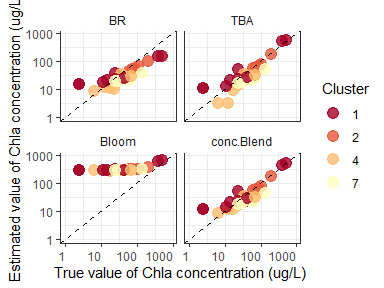
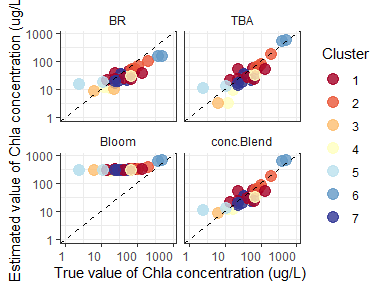
Version 0.9.1 README update

diff --git a/README.md b/README.md
@@ -88,7 +88,7 @@ plot_spec_from_df(Rrs) +
 
 ``` r
 # Applying FCMm
-result <- apply_FCM_m(Rrs=Rrs, option.plot=TRUE)
+result <- apply_FCM_m(Rrs=Rrs, option.plot=TRUE, do.stand=TRUE)
 plot(result$p.group + theme(text=element_text(size=13)))
 ```
 
@@ -162,7 +162,6 @@ Assess_soft <- Assessment_via_cluster(pred = pred,
                                       na.process = TRUE,
                                       plot.col = TRUE)
 Assess_soft$res_plot_facet
-#> Warning: Removed 36 rows containing missing values (geom_col).
 ```
 
 <img src="man/figures/README-unnamed-chunk-4-1.png" width="60%" style="display: block; margin: auto;" />
@@ -173,29 +172,29 @@ knitr::kable(Assess_soft$MAE %>% round(3))
 
 |     |    BR |   TBA | Bloom | Blend |
 |:----|------:|------:|------:|------:|
-| 1   | 0.317 | 0.256 | 1.118 | 0.255 |
-| 2   | 0.213 | 0.087 | 0.536 | 0.093 |
-| 3   |    NA |    NA |    NA |    NA |
-| 4   | 0.180 | 0.233 | 0.998 | 0.159 |
-| 5   |    NA |    NA |    NA |    NA |
-| 6   |    NA |    NA |    NA |    NA |
-| 7   | 0.289 | 0.272 | 0.855 | 0.263 |
+| 1   | 0.256 | 0.229 | 0.857 | 0.229 |
+| 2   | 0.212 | 0.091 | 0.499 | 0.091 |
+| 3   | 0.243 | 0.292 | 1.374 | 0.125 |
+| 4   | 0.201 | 0.274 | 0.927 | 0.201 |
+| 5   | 0.573 | 0.452 | 1.747 | 0.452 |
+| 6   | 0.460 | 0.081 | 0.163 | 0.163 |
+| 7   | 0.145 | 0.187 | 0.976 | 0.144 |
 | SUM | 0.254 | 0.225 | 0.928 | 0.199 |
 
 ``` r
 knitr::kable(Assess_soft$MAPE %>% round(2))
 ```
 
-|     |    BR |   TBA |  Bloom | Blend |
-|:----|------:|------:|-------:|------:|
-| 1   | 43.34 | 36.18 | 141.42 | 36.50 |
-| 2   | 10.52 |  4.48 |  28.43 |  4.79 |
-| 3   |    NA |    NA |     NA |    NA |
-| 4   | 12.12 | 17.86 |  76.83 | 10.64 |
-| 5   |    NA |    NA |     NA |    NA |
-| 6   |    NA |    NA |     NA |    NA |
-| 7   | 20.44 | 19.40 |  65.49 | 18.74 |
-| SUM | 23.96 | 22.39 |  88.10 | 20.01 |
+|     |     BR |    TBA |  Bloom |  Blend |
+|:----|-------:|-------:|-------:|-------:|
+| 1   |  15.06 |  13.91 |  58.31 |  13.91 |
+| 2   |  10.40 |   4.62 |  25.74 |   4.64 |
+| 3   |  20.94 |  36.04 | 141.78 |  15.40 |
+| 4   |  12.65 |  19.25 |  64.93 |  12.64 |
+| 5   | 129.52 | 104.64 | 362.56 | 104.83 |
+| 6   |  17.30 |   3.09 |   6.18 |   6.15 |
+| 7   |   9.80 |  13.09 |  67.38 |   9.70 |
+| SUM |  23.96 |  22.39 |  88.10 |  19.80 |
 
 ## Getting help
 
